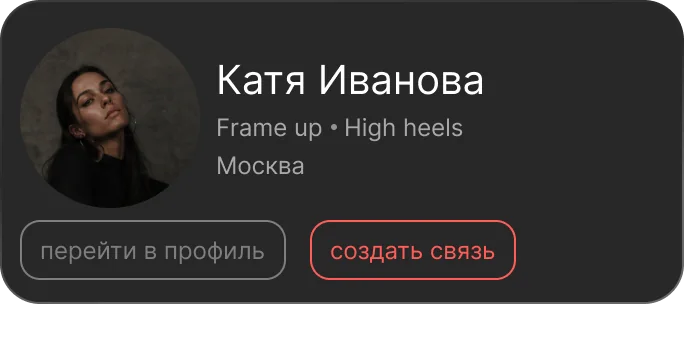
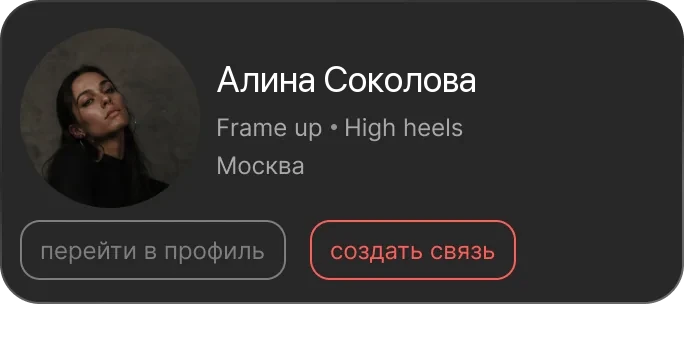
Looma: презентация — свежий экран нити на обложке, телефон в «Персональных рекомендациях», карточка Алины в UI-ките, глава «Проектирование» без наезда, «Все проекты» внутри слайда, финал не наезжает на шкалу

Changed region(s): [[0.307, 0.1734, 0.7061, 0.289]]

diff --git a/looma.html b/looma.html
@@ -44,8 +44,9 @@ h1,h2,h3,p{margin:0;font-weight:400}
 button{font:inherit;color:inherit;background:none;border:0;cursor:pointer}
 :focus-visible{outline:2px solid var(--red);outline-offset:4px;border-radius:6px}
 
-.home-link{position:fixed;left:24px;top:16px;z-index:100;color:var(--text);opacity:.7;transition:opacity .3s}
-.home-link:hover{opacity:1}
+.deck-home{position:absolute;left:120px;top:32px;z-index:60;font-size:18px;color:var(--faint);transition:color .3s}
+.deck-home:hover{color:var(--text)}
+.deck-home i{width:10px;height:10px}
 .home-mark{display:inline-flex;align-items:center;gap:12px;font:400 12px/1.6 "PT Mono",ui-monospace,Menlo,monospace;letter-spacing:.12em;text-transform:uppercase;text-decoration:none;color:inherit;padding:8px 0;white-space:nowrap}
 .home-mark i{width:8px;height:8px;border-radius:50%;background:#7E2625;display:block;flex:none;transition:transform .3s}
 .home-mark .ar{display:inline-block;width:0;margin-right:-12px;opacity:0;overflow:hidden;transition:width .3s,margin .3s,opacity .3s}
@@ -152,7 +153,7 @@ button{font:inherit;color:inherit;background:none;border:0;cursor:pointer}
 
 /* ---------- S4 circles ---------- */
 #s4{padding:0}
-#s4 .bgimg{position:absolute;inset:0;width:100%;height:100%;object-fit:cover;opacity:.9;mix-blend-mode:screen}
+#s4 .bgimg{position:absolute;inset:0;width:100%;height:100%;object-fit:cover;opacity:.45;mix-blend-mode:screen}
 #s4 .head{position:absolute;left:120px;top:96px;display:flex;flex-direction:column;gap:20px;z-index:3;width:520px}
 .circ{position:absolute;border-radius:50%;background:radial-gradient(circle at 50% 35%,#1a1919,#101010 70%);border:1.5px solid rgba(254,93,87,.75);
   display:flex;flex-direction:column;align-items:center;justify-content:center;gap:14px;text-align:center;z-index:2;
@@ -252,10 +253,10 @@ button{font:inherit;color:inherit;background:none;border:0;cursor:pointer}
 
 /* ---------- S10 hero ---------- */
 #s10{padding:0;background:#050505}
-#s10 .mock{position:absolute;inset:-40px;width:calc(100% + 80px);height:calc(100% + 80px);object-fit:cover;transition:transform 1.2s var(--ease)}
+#s10 .mock{position:absolute;left:520px;top:-40px;width:calc(100% - 480px);height:calc(100% + 80px);object-fit:cover;transition:transform 1.2s var(--ease)}
 #s10 .ov{position:absolute;left:120px;top:96px;z-index:2;display:flex;flex-direction:column;gap:20px}
 #s10 .ov .hd{font-size:140px}
-#s10 .shade{position:absolute;inset:0;background:linear-gradient(90deg,rgba(5,5,5,.85) 0%,rgba(5,5,5,.2) 45%,transparent 70%);z-index:1}
+#s10 .shade{position:absolute;inset:0;background:linear-gradient(90deg,#050505 0%,#050505 27%,rgba(5,5,5,.4) 42%,transparent 60%);z-index:1}
 
 /* ---------- phones ---------- */
 .phones{display:flex;gap:28px;align-items:flex-end;justify-content:center}
@@ -279,6 +280,7 @@ button{font:inherit;color:inherit;background:none;border:0;cursor:pointer}
 .ring.r3{width:540px;height:540px;margin:-270px;background:#101010;box-shadow:0 0 0 1px rgba(254,93,87,.12)}
 .ring.pulse{width:540px;height:540px;margin:-270px;border:1.5px solid rgba(254,93,87,.5);animation:pulse 3.6s var(--ease) infinite}
 @keyframes pulse{0%{transform:scale(1);opacity:.8}100%{transform:scale(1.85);opacity:0}}
+.rings .ph{position:relative;z-index:2}
 .rings .ph img{width:330px}
 .blocks{display:flex;flex-direction:column;gap:0}
 .blocks div{padding:24px 0;border-top:1px solid var(--line);display:grid;grid-template-columns:48px 1fr;gap:16px;font-size:26px;transition:color .3s, padding .4s var(--ease)}
@@ -323,7 +325,7 @@ button{font:inherit;color:inherit;background:none;border:0;cursor:pointer}
 #s16 .th{position:absolute;left:-200px;top:40px;width:2300px;mix-blend-mode:screen;opacity:.95;transition:transform 1.4s var(--ease)}
 #s16 .big{position:absolute;left:112px;top:120px;font-family:var(--serif);font-size:180px;white-space:nowrap;line-height:1;letter-spacing:-.01em;font-weight:500;z-index:2}
 #s16 .big span{color:var(--red);font-style:italic}
-#s16 .meta{position:absolute;left:960px;right:120px;top:560px;display:grid;grid-template-columns:1fr 1fr;gap:44px 40px;z-index:2}
+#s16 .meta{position:absolute;left:960px;right:120px;top:500px;display:grid;grid-template-columns:1fr 1fr;gap:32px 40px;z-index:2}
 #s16 .meta div{display:flex;flex-direction:column;gap:10px}
 #s16 .meta p{font-size:30px}
 
@@ -438,10 +440,10 @@ button{font:inherit;color:inherit;background:none;border:0;cursor:pointer}
 <script src="assets/metrics.js" defer></script>
 </head>
 <body>
-<a class="home-mark home-link" href="./" aria-label="На главную"><span class="ar" aria-hidden="true">←</span><i aria-hidden="true"></i>Екатерина Богданова</a>
 <div id="viewport">
 <div id="stage">
   <div class="glow" id="glow"></div>
+  <a class="home-mark deck-home" href="./" aria-label="На главную"><span class="ar" aria-hidden="true">←</span><i aria-hidden="true"></i>Все проекты</a>
 
   <!-- 1 cover -->
   <section class="slide" id="s1" data-sec="Кейс">
